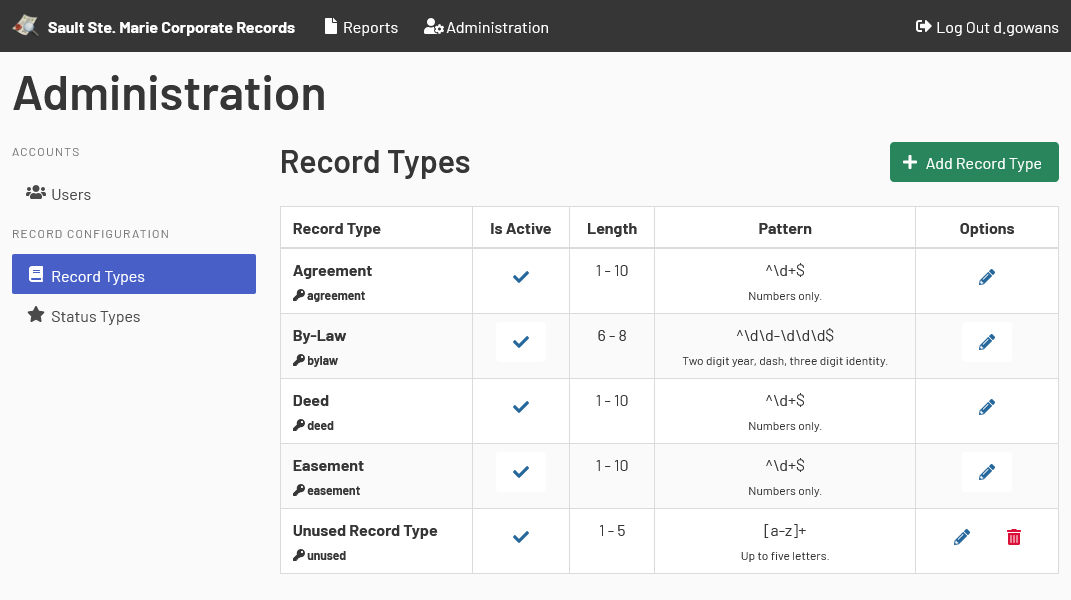
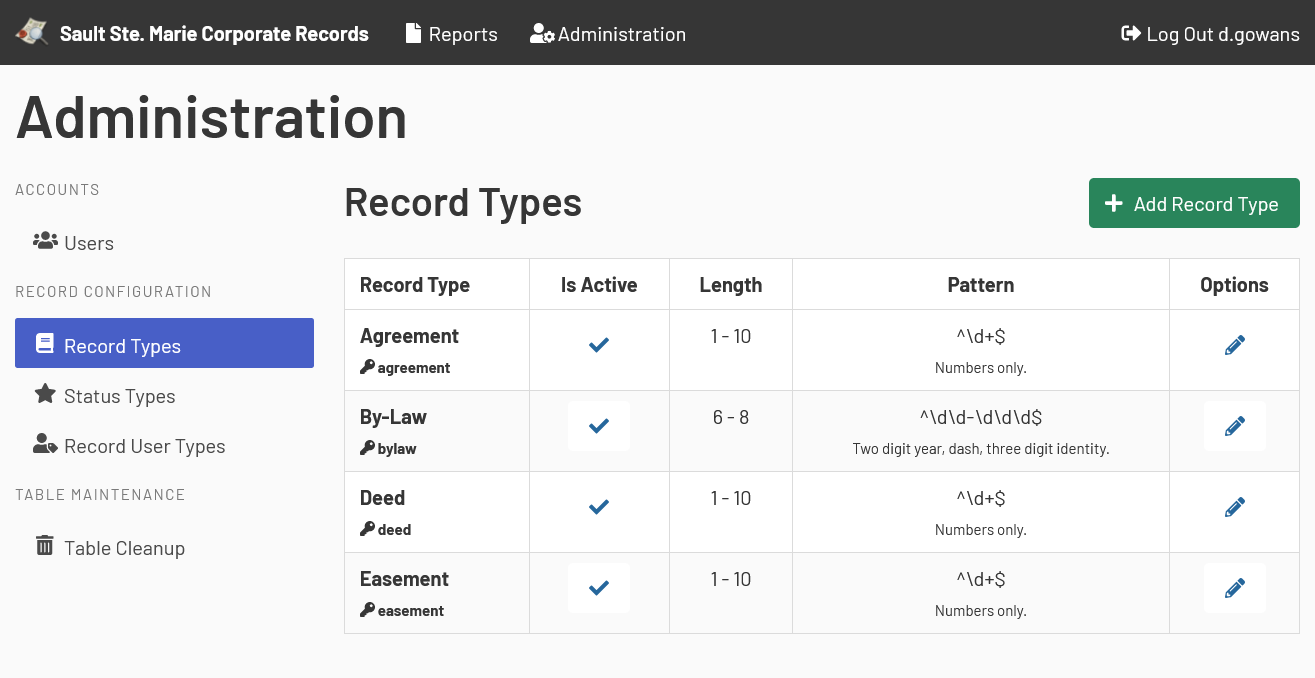
update for recordusertypes

diff --git a/docs/admin.md b/docs/admin.md
@@ -11,11 +11,15 @@ Administrators have the ability to make changes to the following configuration t
 -   Users
 -   Record Types
 -   Status Types
+-   Record User Types
 
 These tables are documented in the [Setup documentation](setup.md).
 
 ## General Notes
 
--   Only items not associated with records can be fully removed.  Items that cannot be removed can be hidden from view by being set as inactive.
+-   Only items not associated with records can be fully removed.
+    Items that cannot be removed can be hidden from view by being set as inactive.
 
--   When updating record types and status types, be sure not to change the meaning of the type.  For example, if a status type of "New" is renamed to "Expired", all those records using that status will be updated as well.  When in doubt, create a new type, and mark the old one as inactive.
+-   When updating record types and status types, be sure not to change the meaning of the type.
+    For example, if a status type of "New" is renamed to "Expired", all those records using that status will be updated as well.
+    When in doubt, create a new type, and mark the old one as inactive.
